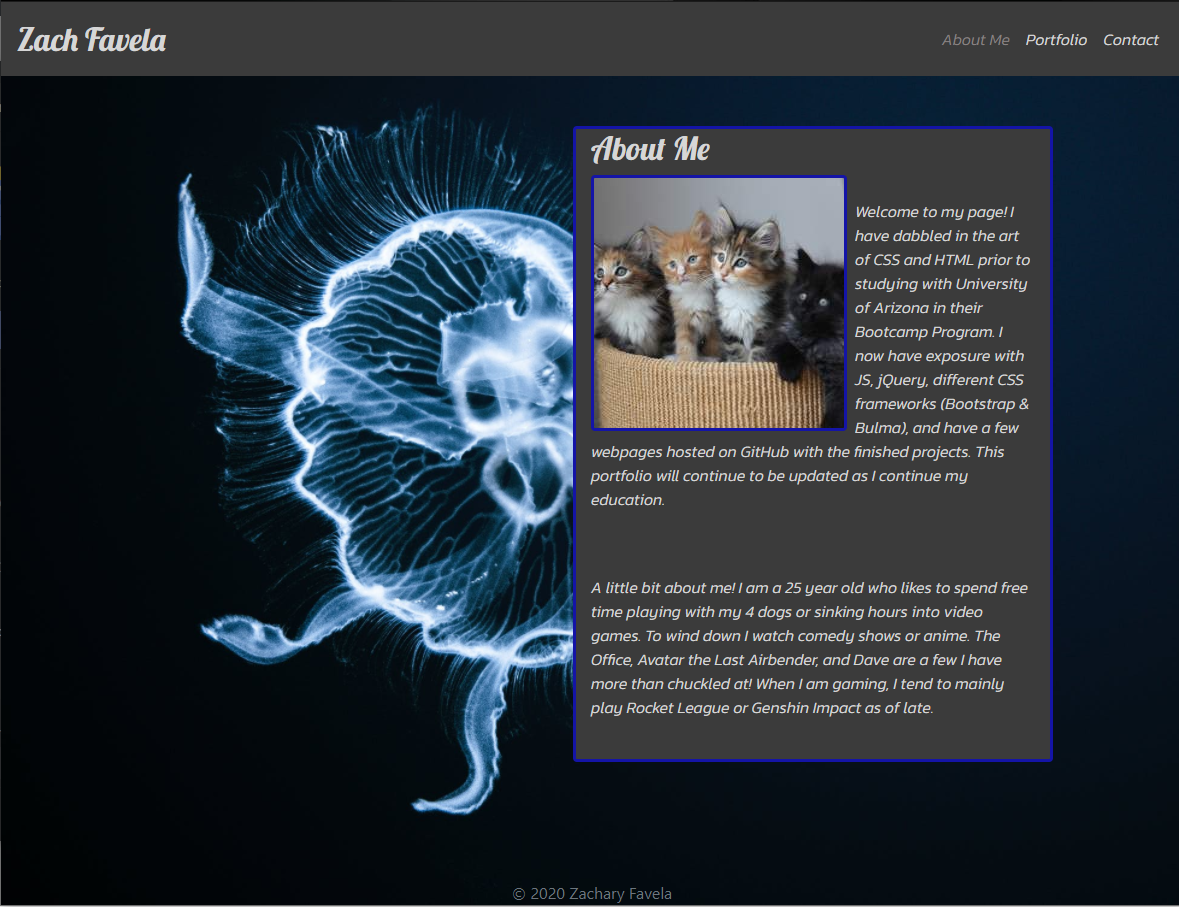
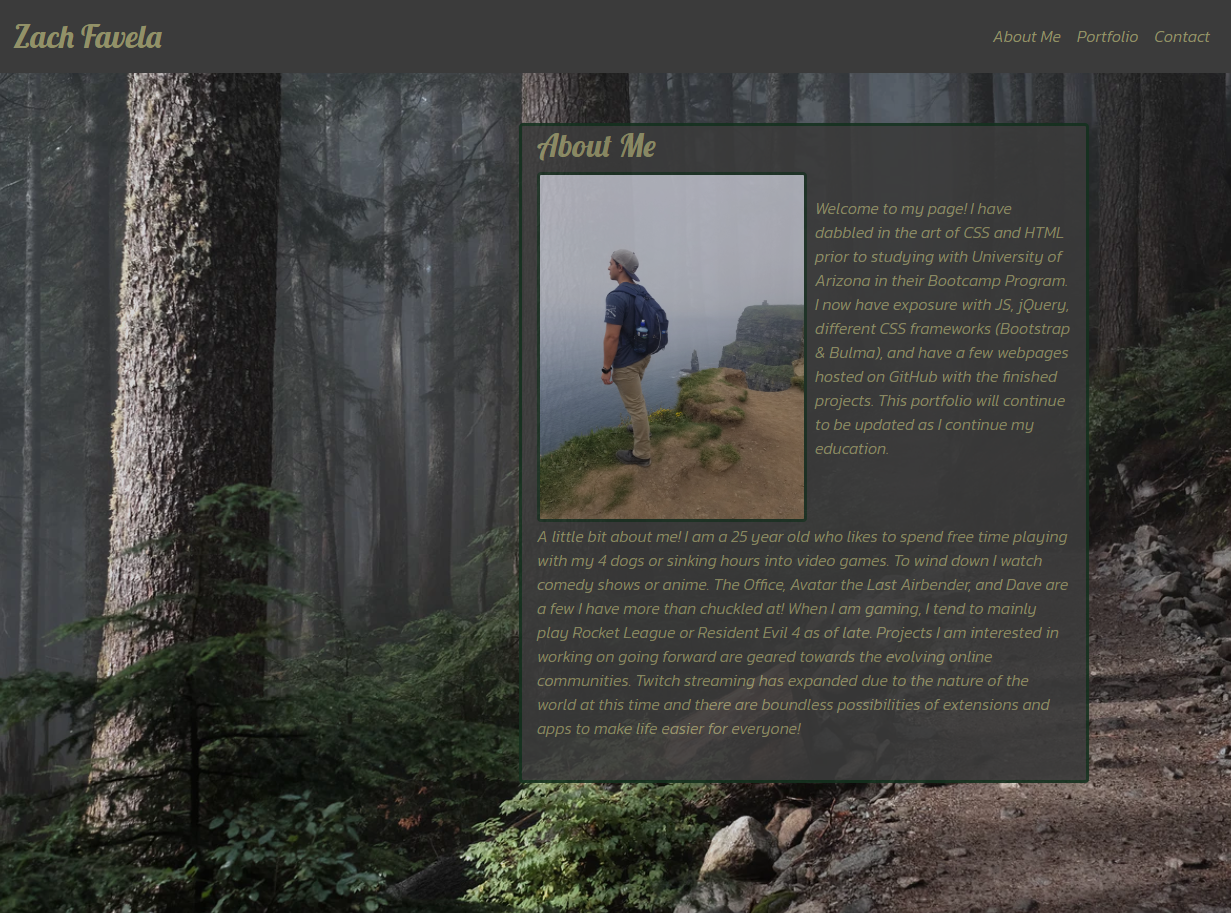
styling changes, updated read me, updated photos

diff --git a/assets/style.css b/assets/style.css
@@ -6,12 +6,13 @@
 html, body {
     background-color: lightgrey;
     height: 100%;
-    background-image: url('https://images.pexels.com/photos/4577223/pexels-photo-4577223.jpeg?auto=compress&cs=tinysrgb&dpr=2&h=750&w=1260');
+    background-image: url('https://images.unsplash.com/photo-1507936580189-3816b4abf640?ixlib=rb-1.2.1&ixid=MXwxMjA3fDB8MHxwaG90by1wYWdlfHx8fGVufDB8fHw%3D&auto=format&fit=crop&w=1350&q=80');
     background-size: cover;
     background-repeat: no-repeat;
     background-position: center;
     padding-top: 40px;
     background-attachment: fixed;
+    background-blend-mode: darken;
 }
 .navbar {
   width: 100%;
@@ -22,45 +23,48 @@ html, body {
 .navbar-light .navbar-brand.name-head, .name-head {
   font-family: Lobster;
   font-size: 2rem;
-  color: rgb(214, 214, 214);
+  color: rgb(146, 145, 104);
 }
 #main-img{
   border: solid;
   border-radius: 4px;
-  border-color: rgb(20, 20, 167);
+  border-color: rgb(21, 49, 31);
   margin-right: 2rem;
+  height: 350px;
+  width: 270px;
+  opacity: 80%;
 }
 .img-pw{
   border: solid;
   border-radius: 4px;
-  border-color: rgb(20, 20, 167);
+  border-color: rgb(21, 49, 31);
   width: 100%;
   box-sizing: border-box;
 }
 .img-quiz{
   border: solid;
   border-radius: 4px;
-  border-color: rgb(20, 20, 167);
+  border-color: rgb(21, 49, 31);
   width: 97%;
   justify-content: center;
 }
 .img-project{
   border: solid;
   border-radius: 4px;
-  border-color: rgb(20, 20, 167);
+  border-color: rgb(21, 49, 31);
   width: 90%;
   margin-left: 20px;
 }
 .navbar-light .navbar-nav .active>.nav-link.color-this {
   font-family: kanit;
   font-size: 1rem;
-  color: rgb(136, 130, 130);
+  color: rgb(146, 145, 104);
   font-size: 1rem;
 }
 .navbar-light .navbar-nav .nav-link.color-this, .color-this {
   font-family: kanit;
   font-size: 1rem;
-  color: rgb(214, 214, 214);
+  color: rgb(146, 145, 104);
   font-size: 1rem;
 }
 .my-container {
@@ -79,11 +83,12 @@ html, body {
 }
 .aboot-me{
   background-color:  #3b3b3b;
-  color: rgb(17, 17, 131);
+  color: rgb(21, 49, 31);
   margin-top: 20px;
-  border: rgb(20, 20, 167);
+  border: rgb(21, 49, 31);
   border-style: solid;
   border-radius: 4px;
+  opacity: 90%;
 }
 /* .my-footer {
   display: flex;

diff --git a/index.html b/index.html
@@ -40,11 +40,11 @@
                 <h1 class="name-head">About Me</h1>
                 <div class="row">
                     <div class="col-md-12">
-                        <img src="http://placegoat.com/250/250" alt="goat" class="float-left mr-2" id="main-img">
+                        <img src="./assets/my-port-photo.jpg" alt="My Photo" class="float-left mr-2" id="main-img">
                         
                         <p class="color-this">Welcome to my page! I have dabbled in the art of CSS and HTML prior to studying with University of Arizona in their Bootcamp Program. I now have exposure with JS, jQuery, different CSS frameworks (Bootstrap & Bulma), and have a few webpages hosted on GitHub with the finished projects. This portfolio will continue to be updated as I continue my education. </p>
                         <br>    
-                        <p class="color-this">A little bit about me! I am a 25 year old who likes to spend free time playing with my 4 dogs or sinking hours into video games. To wind down I watch comedy shows or anime. The Office, Avatar the Last Airbender, and Dave are a few I have more than chuckled at! When I am gaming, I tend to mainly play Rocket League or Genshin Impact as of late.</p>
+                        <p class="color-this">A little bit about me! I am a 25 year old who likes to spend free time playing with my 4 dogs or sinking hours into video games. To wind down I watch comedy shows or anime. The Office, Avatar the Last Airbender, and Dave are a few I have more than chuckled at! When I am gaming, I tend to mainly play Rocket League or Resident Evil 4 as of late. Projects I am interested in working on going forward are geared towards the evolving online communities. Twitch streaming has expanded due to the nature of the world at this time and there are boundless possibilities of extensions and apps to make life easier for everyone!</p>
                         
                     </div>
                 </div>

diff --git a/README.md b/README.md
@@ -5,7 +5,7 @@ Welcome to my portfolio! Spanning multiple pages is some information about me, w
 
 ## Style
 
-I chose a simple background that would look nice on all pages. About me image is a placeholder until I upload different images. The contact card and portfolio pages are updated including a link to currently active projects and my GitHub. Check it out below:
+I chose a simple background that would look nice on all pages. The contact card and portfolio pages are updated including a link to currently active projects and my GitHub. Check it out below:
 
 ![About Me](assets/readme-about.PNG)
 
